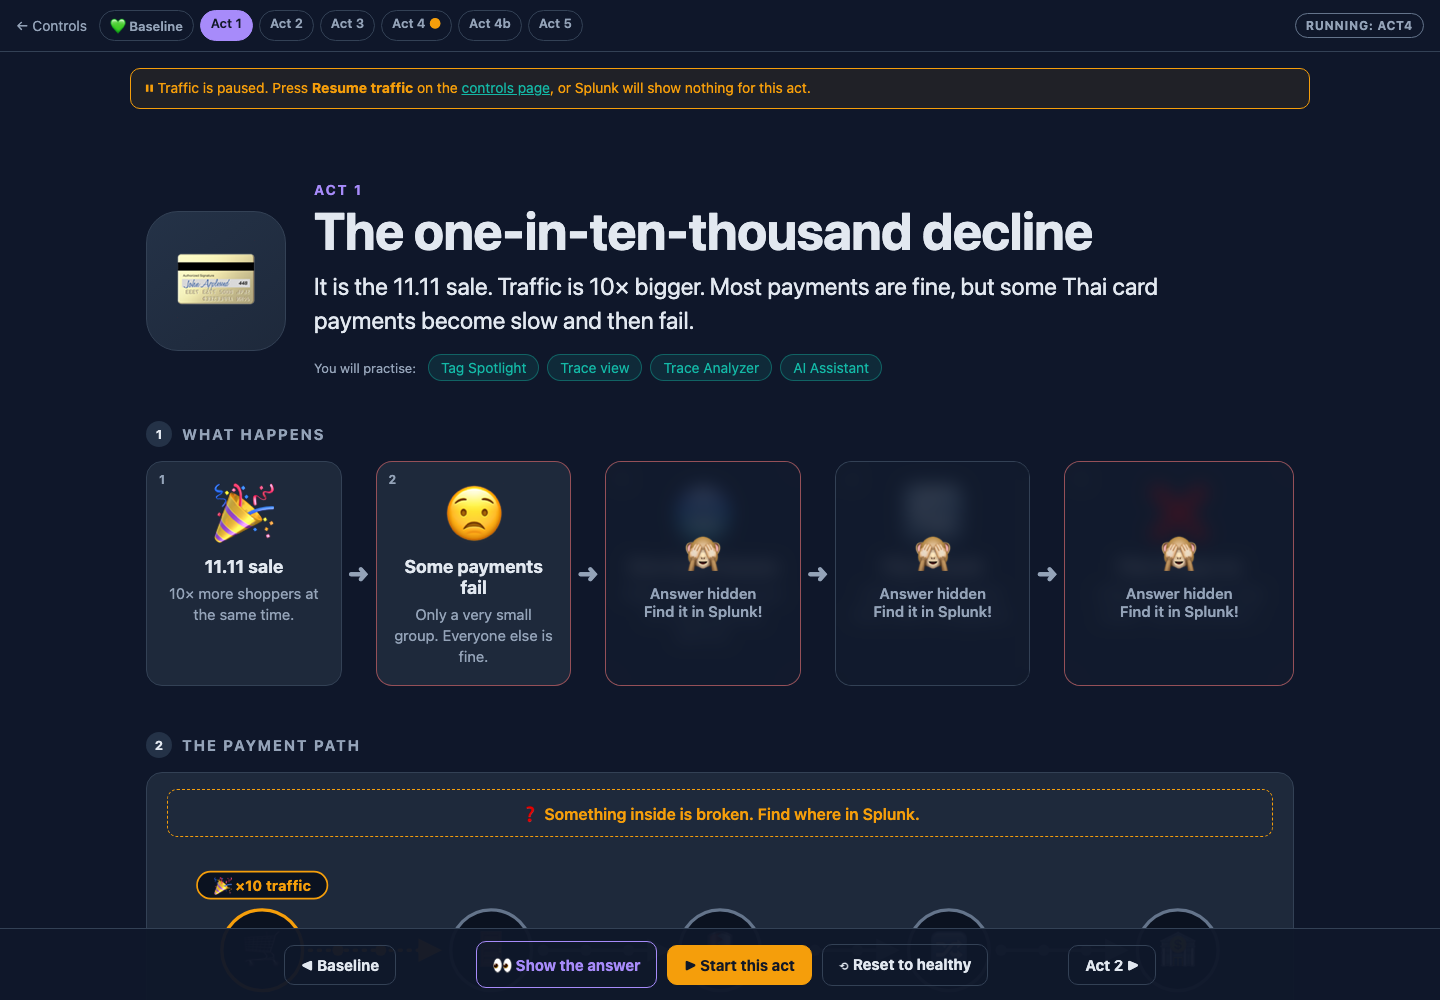
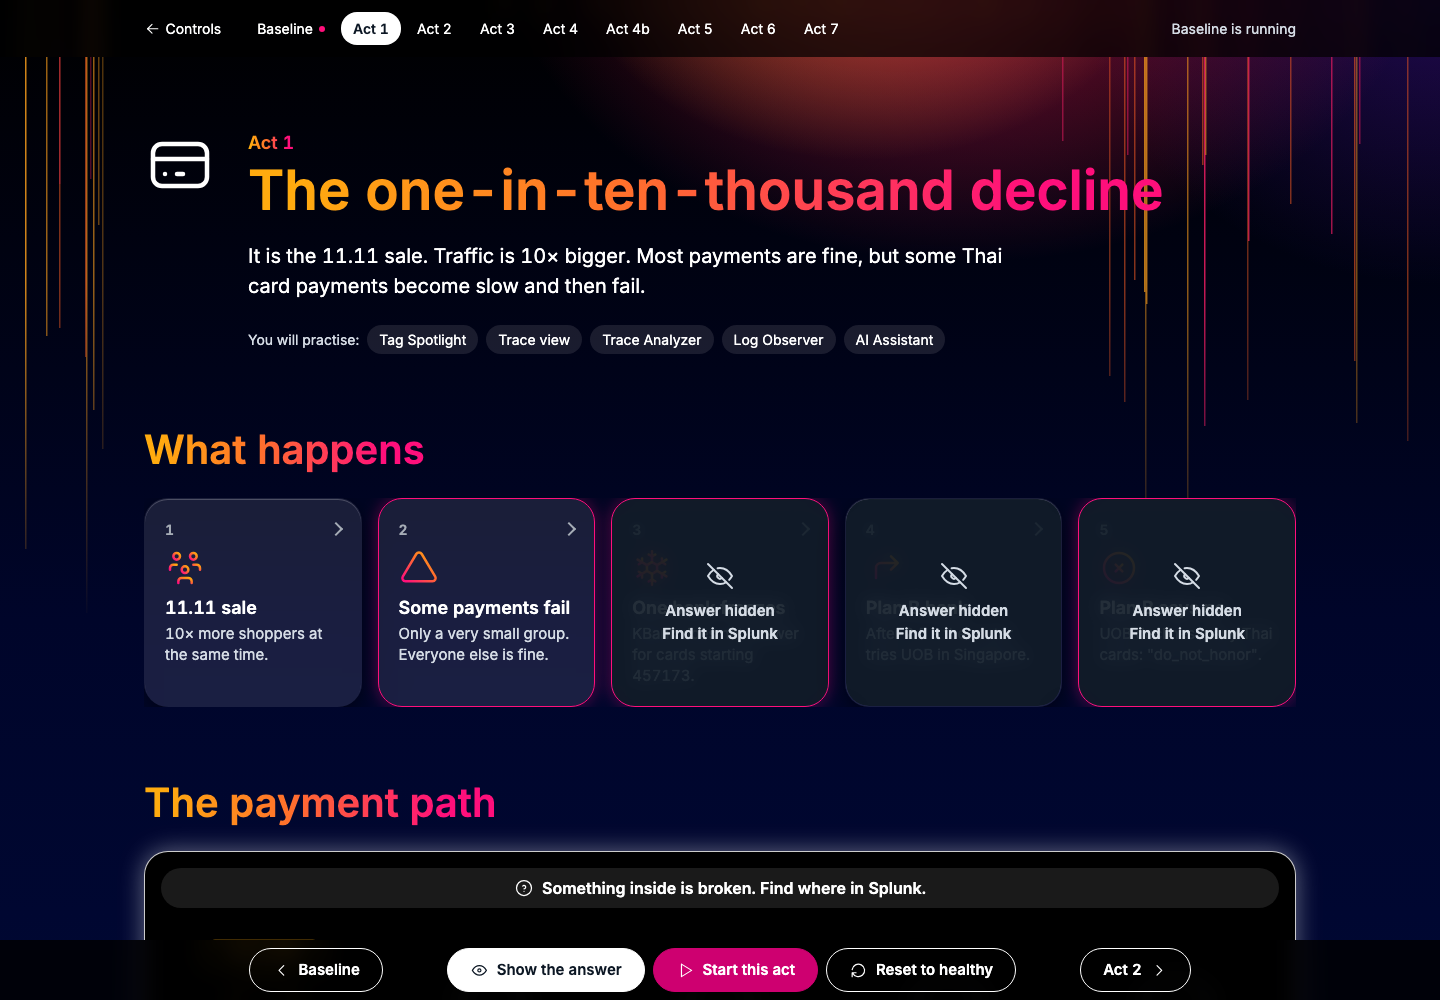
README: screenshots of the current war room, act guide and agentic checkout console

diff --git a/README.md b/README.md
@@ -29,7 +29,7 @@ crash-loops the wallet. Docker Compose remains as a lighter alternative for lapt
 
 ### Screenshots
 
-**War Room control panel** — <http://localhost:8090>: storyline presets and individual failure injections.
+**War Room control panel** — <http://localhost:8090>: a run sheet across the top (pick an act, open its guide or run it) and one tile per failure injection below.
 
 ![War Room control panel](docs/images/war-room.png)
 
